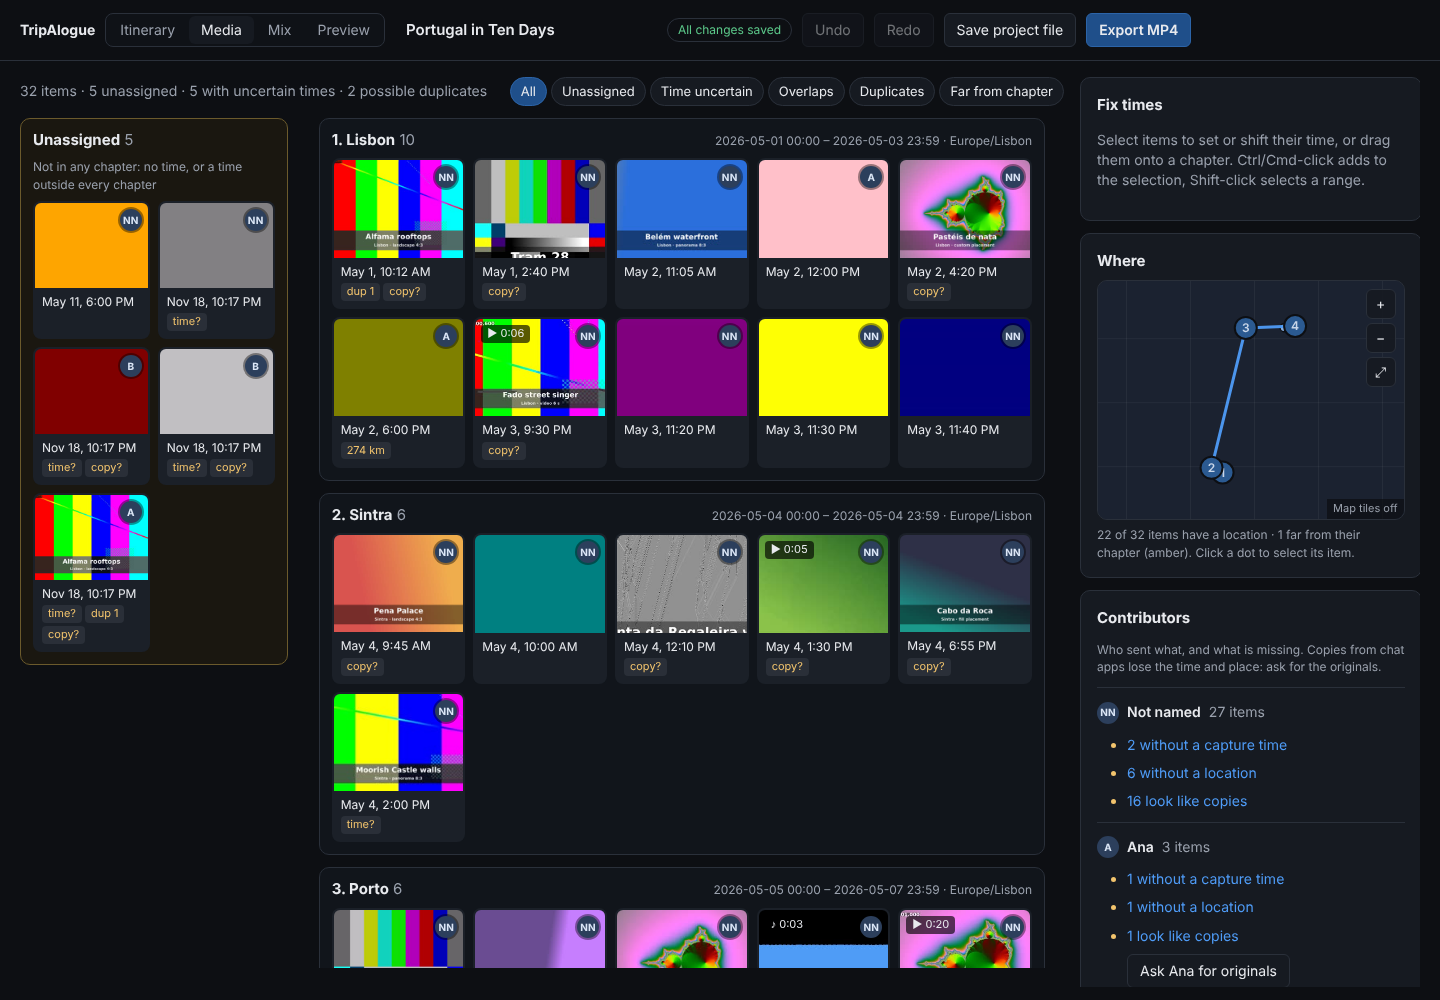
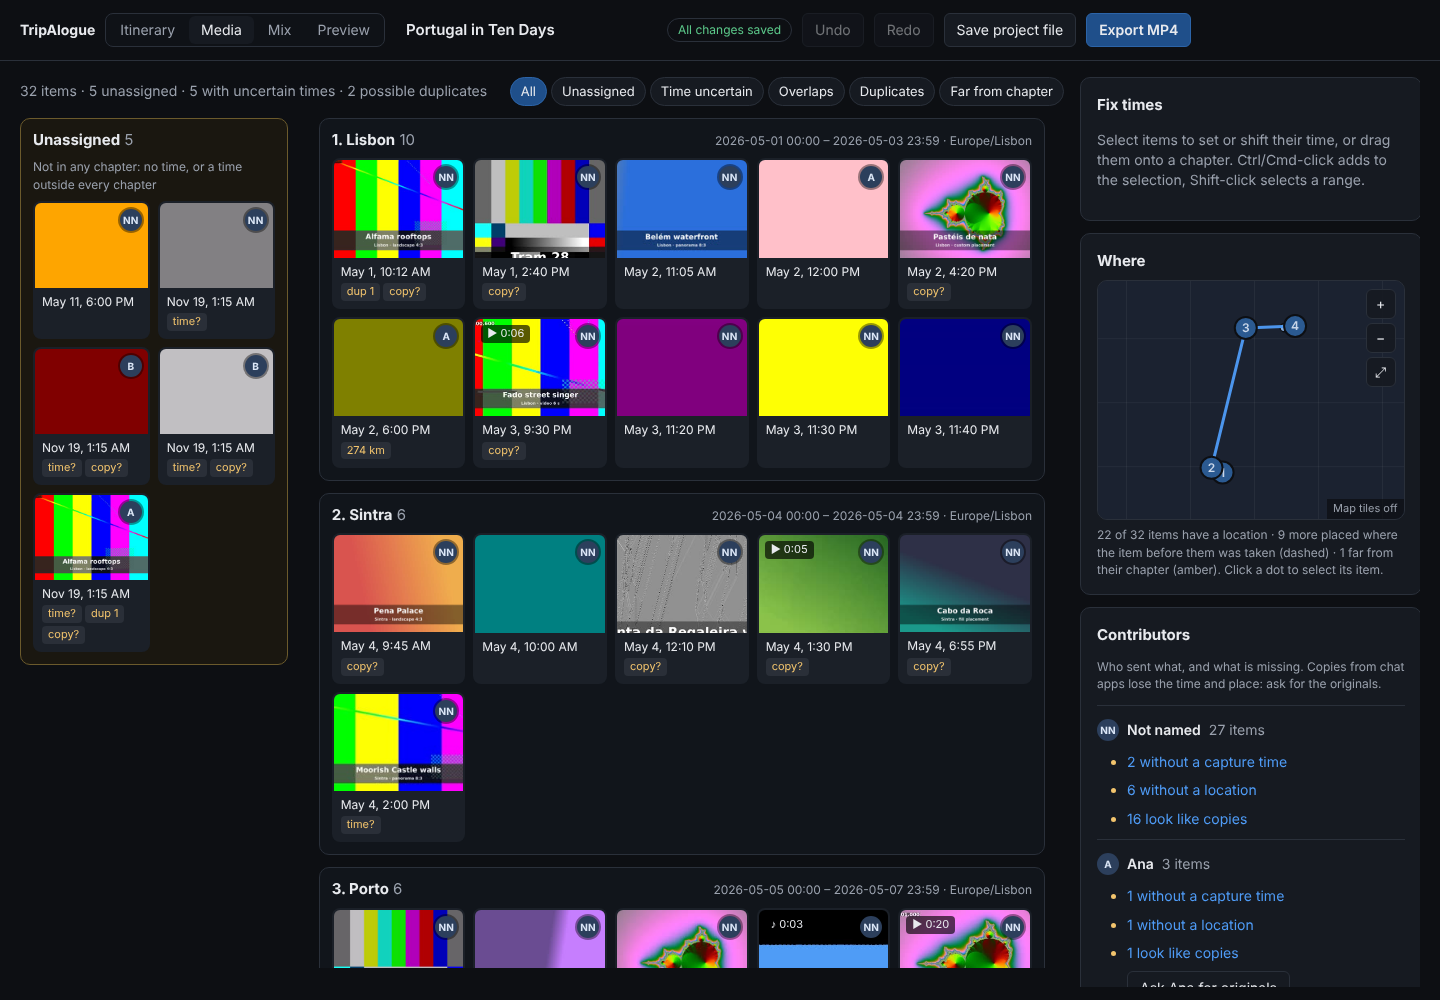
Place media without a location where the last earlier located item was taken
Pictures and videos with no location of their own borrow the place of the most
recent earlier item (by capture time) that has one. Derived, not saved: a location
set later wins. Used by the playback/export map and the Media view (dashed dots,
"placed where X was taken"). PRD MV-7 updated.

Claude-Session: https://claude.ai/code/session_01AduyArpdAmAEsk6yH1Lq9i

diff --git a/src/web/media.ts b/src/web/media.ts
@@ -23,10 +23,12 @@
  */
 import {
   contributorOf, contributorReports, duplicateGroups, dropIntoChapter, farFromChapter, itemInstant, localToUtc, messagingApp,
-  originalsRequest, overlapItems, previewClockOffset, removeMedia, renameSource, restoreMedia, setClockOffset, setItemLocation, setVideoTrim, MIN_CLIP_SEC, setSourceContributor, setUserTime, shiftUserTime, addTraveler, travelerName, newId,
+  originalsRequest, overlapItems, previewClockOffset, removeMedia, renameSource, restoreMedia, setClockOffset, setItemLocation, setVideoTrim, MIN_CLIP_SEC, setSourceContributor, setUserTime, shiftUserTime, addTraveler, travelerName, newId, mediaPlaces,
   strippedSigns, type ContributorReport, type Id, type LatLng, type MediaItem, type Travelogue,
 } from '../core/index.js';
 import { Api } from './api.js';
+
+const fileName = (uri: string) => uri.split('/').pop() ?? uri;
 
 /** The traveler menu's "+ New traveler…" entry. */
 const NEW_TRAVELER = '__new__';
@@ -461,9 +463,13 @@ export function mountMedia(s: ProjectSession, ctx: { projectId: string; play: (i
     const ch = p.chapters.find((c) => c.id === (one ?? items[0]).chapterId);
     const set = (label: string, loc: LatLng | null) => s.edit(label, (q) => setItemLocation(q, ids, loc), { structural: true });
     const editable = s.canEdit;
+    const places = mediaPlaces(p);
+    const lent = one && !one.location ? places.get(one.id) : undefined;
+    const lender = lent?.from && p.media.find((m) => m.id === lent.from);
     const status = one
-      ? (one.location ? `${one.location.lat.toFixed(4)}, ${one.location.lng.toFixed(4)}` : 'No location')
-      : `${located.length} of ${items.length} have a location`;
+      ? (one.location ? `${one.location.lat.toFixed(4)}, ${one.location.lng.toFixed(4)}`
+        : lent ? `None of its own: placed where ${lender ? fileName(lender.uri) : 'an earlier item'} was taken` : 'No location')
+      : `${located.length} of ${items.length} have a location${items.some((m) => !m.location && places.has(m.id)) ? '; the rest are placed where the item before them was taken' : ''}`;
     return h('div', { class: 'field', id: 'location-field' },
       h('label', {}, 'Location ', h('span', { class: 'muted', id: 'location-status' }, status)),
       h('div', { class: 'row' },
@@ -483,13 +489,19 @@ export function mountMedia(s: ProjectSession, ctx: { projectId: string; play: (i
   function renderMap() {
     const p = s.state;
     map.setPins(p.chapters.flatMap((c, i) => (c.coordinates ? [{ id: c.id, index: i, lat: c.coordinates.lat, lng: c.coordinates.lng, title: c.title }] : [])));
-    map.setDots(p.media.filter((m) => m.location).map((m) => ({
-      id: m.id, lat: m.location!.lat, lng: m.location!.lng,
-      state: selection.has(m.id) ? 'selected' as const : derived.far.has(m.id) ? 'far' as const : m.chapterId === null ? 'unassigned' as const : undefined,
-    })));
+    // Items without a location of its own are drawn where the last earlier located item was taken (dashed).
+    const places = mediaPlaces(p);
+    map.setDots(p.media.flatMap((m) => {
+      const at = places.get(m.id);
+      return at ? [{
+        id: m.id, lat: at.lat, lng: at.lng, borrowed: !!at.from,
+        state: selection.has(m.id) ? 'selected' as const : derived.far.has(m.id) ? 'far' as const : m.chapterId === null ? 'unassigned' as const : undefined,
+      }] : [];
+    }));
     const located = p.media.filter((m) => m.location).length;
+    const borrowed = [...places.values()].filter((x) => x.from).length;
     mapHint.textContent = picking ? 'Click the map to set the location.'
-      : `${located} of ${p.media.length} items have a location${derived.far.size ? ` · ${derived.far.size} far from their chapter (amber)` : ''}. Click a dot to select its item.`;
+      : `${located} of ${p.media.length} items have a location${borrowed ? ` · ${borrowed} more placed where the item before them was taken (dashed)` : ''}${derived.far.size ? ` · ${derived.far.size} far from their chapter (amber)` : ''}. Click a dot to select its item.`;
   }
 
   // ---------------------------------------------------------------- contributors (MM-16, MM-17)
@@ -544,13 +556,16 @@ export function mountMedia(s: ProjectSession, ctx: { projectId: string; play: (i
   function itemDetail(p: Travelogue, m: MediaItem): HTMLElement {
     const src = p.sources.find((x) => x.id === m.sourceId);
     const tz = zoneFor(p, m);
+    const lent = m.location ? undefined : mediaPlaces(p).get(m.id);
+    const lender = lent?.from ? p.media.find((x) => x.id === lent.from) : undefined;
     const rows: [string, string][] = [
       ['Kind', `${m.kind}${m.width ? ` · ${m.width}×${m.height}` : ''}${m.durationSec ? ` · ${dur(m.durationSec)}` : ''}`],
       ['Camera time', m.capturedAt ? `${m.capturedAt}${m.timestampConfidence === 'low' ? ' (from the file date)' : ''}` : 'none'],
       ...(src?.clockOffsetSec ? [['Clock offset', offsetLabel(src.clockOffsetSec)] as [string, string]] : []),
       ...(m.userTimestamp ? [['Set by hand', fmt(Date.parse(m.userTimestamp), tz, true)] as [string, string]] : []),
       ['Source', src?.displayName ?? '?'],
-      ...(m.location ? [['Location', `${m.location.lat.toFixed(4)}, ${m.location.lng.toFixed(4)}`] as [string, string]] : []),
+      ...(m.location ? [['Location', `${m.location.lat.toFixed(4)}, ${m.location.lng.toFixed(4)}`] as [string, string]]
+        : lent?.from ? [['Location', `${lent.lat.toFixed(4)}, ${lent.lng.toFixed(4)}, from ${lender ? fileName(lender.uri) : 'an earlier item'}`] as [string, string]] : []),
     ];
     return h('dl', { class: 'detail' }, ...rows.flatMap(([k, v]) => [h('dt', {}, k), h('dd', {}, v)]));
   }

diff --git a/test/places.test.ts b/test/places.test.ts
@@ -1,0 +1,72 @@
+/**
+ * Items without a location borrow the place of the most recent earlier item that has one.
+ */
+import { describe, it } from 'node:test';
+import assert from 'node:assert/strict';
+import { readFileSync } from 'node:fs';
+import { buildTimeline, mapAt, mediaPlace, mediaPlaces, parseProject, type MapLayer, type MediaItem, type Travelogue } from '../src/core/index.js';
+
+const sample = (): Travelogue => parseProject(readFileSync('samples/hand-written-20/trip.travelogue.json', 'utf8')).project;
+const edit = (p: Travelogue, id: string, patch: (m: MediaItem) => MediaItem): Travelogue => ({ ...p, media: p.media.map((m) => (m.id === id ? patch(m) : m)) });
+const unlocate = (p: Travelogue, id: string) => edit(p, id, ({ location: _l, ...m }) => m);
+const loc = (p: Travelogue, id: string) => p.media.find((m) => m.id === id)!.location!;
+
+describe('borrowed places', () => {
+  it('an item without a location is placed where the last earlier located item was taken', () => {
+    const p = unlocate(sample(), 'm04');
+    const at = mediaPlace(p, 'm04')!;
+    assert.deepEqual({ lat: at.lat, lng: at.lng }, loc(p, 'm03'));
+    assert.equal(at.from, 'm03');
+  });
+
+  it('uses the most recent earlier one, skipping other items without a location, not a later one', () => {
+    let p = unlocate(sample(), 'm03');
+    p = unlocate(p, 'm04');
+    assert.equal(mediaPlace(p, 'm03')!.from, 'm02');
+    assert.equal(mediaPlace(p, 'm04')!.from, 'm02', 'm03 has none of its own to lend');
+  });
+
+  it('goes by capture time, including a time set by hand, not by order in the project', () => {
+    // m02 is moved to after m03 by hand: m04 now borrows from m02.
+    let p = edit(sample(), 'm02', (m) => ({ ...m, userTimestamp: '2026-05-02T12:00:00' }));
+    p = unlocate(p, 'm04');
+    assert.equal(mediaPlace(p, 'm04')!.from, 'm02');
+  });
+
+  it('crosses chapters: the first photo of a chapter can borrow from the end of the one before', () => {
+    const p = unlocate(sample(), 'm06');
+    assert.equal(mediaPlace(p, 'm06')!.from, 'm05');
+  });
+
+  it('an item taken before any located item, or with no capture time, gets no place', () => {
+    let p = unlocate(sample(), 'm01');
+    assert.equal(mediaPlace(p, 'm01'), undefined);
+    p = edit(unlocate(sample(), 'm04'), 'm04', ({ capturedAt: _c, ...m }) => m);
+    assert.equal(mediaPlace(p, 'm04'), undefined);
+  });
+
+  it('an item\'s own location always wins and is not marked as borrowed', () => {
+    const p = sample();
+    const at = mediaPlace(p, 'm04')!;
+    assert.equal(at.from, undefined);
+    assert.deepEqual({ lat: at.lat, lng: at.lng }, loc(p, 'm04'));
+  });
+
+  it('does not change the project', () => {
+    const p = unlocate(sample(), 'm04');
+    mediaPlaces(p);
+    assert.equal(p.media.find((m) => m.id === 'm04')!.location, undefined);
+  });
+
+  it('the map shows a dot for the item where it borrowed its place, and the marker moves there', () => {
+    const p = unlocate(sample(), 'm04');
+    const tl = buildTimeline(p);
+    const s = tl.segments.find((x) => x.kind !== 'title' && x.item.id === 'm04')!;
+    const m = mapAt(p, tl, s.start + s.duration / 2, { w: 1920, h: 1080 })!;
+    const layer = { state: m.state } as Pick<MapLayer, 'state'>;
+    const cur = layer.state.dots.filter((d) => d.state === 'current');
+    assert.equal(cur.length, 1);
+    assert.equal(cur[0].lat, loc(p, 'm03').lat);
+    assert.equal(layer.state.marker?.lat, loc(p, 'm03').lat);
+  });
+});

diff --git a/src/core/places.ts b/src/core/places.ts
@@ -1,0 +1,50 @@
+/**
+ * Where each picture or video was taken, for the map.
+ *
+ * An item with no location of its own (no GPS in the file, none set by hand) is placed where the most recent
+ * earlier item with a location was taken: the last photo or video, by capture time, that has one. Nothing is
+ * written into the project; give the item a location and that one is used instead.
+ *
+ * An item with no capture time, or taken before any located item, gets no place this way.
+ */
+import { mediaInstant } from './itinerary.js';
+import type { Id, LatLng, MediaItem, Travelogue } from './schema.js';
+
+export interface MediaPlace extends LatLng {
+  /** Set when the place is borrowed: the item whose location it is. */
+  from?: Id;
+}
+
+const visual = (m: MediaItem) => m.kind === 'image' || m.kind === 'video';
+
+const cache = new WeakMap<MediaItem[], { chapters: Travelogue['chapters']; places: Map<Id, MediaPlace> }>();
+
+/** Every picture and video with a place: its own location, or the one it borrows. */
+export function mediaPlaces(p: Travelogue): Map<Id, MediaPlace> {
+  const hit = cache.get(p.media);
+  if (hit && hit.chapters === p.chapters) return hit.places;
+  const tzOf = new Map(p.chapters.map((c) => [c.id, c.timeZone]));
+  const fallbackTz = p.chapters[0]?.timeZone ?? 'UTC';
+  const timed = p.media
+    .filter(visual)
+    .map((m) => ({ m, t: mediaInstant(m, (m.chapterId && tzOf.get(m.chapterId)) || fallbackTz) }));
+  const places = new Map<Id, MediaPlace>();
+  for (const { m } of timed) if (m.location) places.set(m.id, { lat: m.location.lat, lng: m.location.lng });
+  // In capture order; items taken at the same moment keep the project's order, with located ones first.
+  const ordered = timed
+    .map((x, i) => ({ ...x, i }))
+    .filter((x) => Number.isFinite(x.t))
+    .sort((a, b) => a.t - b.t || Number(!a.m.location) - Number(!b.m.location) || a.i - b.i);
+  let last: MediaItem | undefined;
+  for (const { m } of ordered) {
+    if (m.location) last = m;
+    else if (last) places.set(m.id, { lat: last.location!.lat, lng: last.location!.lng, from: last.id });
+  }
+  cache.set(p.media, { chapters: p.chapters, places });
+  return places;
+}
+
+/** The place of one item (its own, or borrowed), if it has one. */
+export function mediaPlace(p: Travelogue, itemId: Id): MediaPlace | undefined {
+  return mediaPlaces(p).get(itemId);
+}

diff --git a/src/core/map-model.ts b/src/core/map-model.ts
@@ -19,6 +19,7 @@
 import { segmentIndexAt, DEFAULT_MAP_TRANSITION, type Segment, type Timeline } from './timeline.js';
 import type { Chapter, InsetCorner, LatLng, MapStyle, Travelogue } from './schema.js';
 import { distanceKm } from './contributors.js';
+import { mediaPlaces } from './places.js';
 
 export interface MapCamera {
   lat: number;
@@ -217,9 +218,10 @@ function edgeFade(local: number, d: number, ramp: number): number {
 export function chapterCamera(p: Travelogue, tl: Timeline, chIndex: number, view: { w: number; h: number }): MapCamera {
   const ch = p.chapters[chIndex];
   const pts: LatLng[] = ch.coordinates ? [ch.coordinates] : [];
+  const places = mediaPlaces(p);
   for (const s of tl.segments) {
     if (s.kind === 'title' || s.chapterIndex !== chIndex) continue;
-    const loc = itemPlace(p, s.item.location, ch);
+    const loc = itemPlace(p, places.get(s.item.id), ch);
     if (loc && (!ch.coordinates || distanceKm(ch.coordinates, loc) <= FIT_KM)) pts.push(loc);
   }
   return fitCamera(pts, view, 0.15);
@@ -238,12 +240,15 @@ export function storyAt(p: Travelogue, tl: Timeline, i: number, local: number, a
   const pastDots: MapDotState[] = [];
   const shownPath: LatLng[] = [];
   let current: LatLng | undefined;
+  // An item without a location of its own is placed where the last earlier located item was taken.
+  const places = mediaPlaces(p);
   tl.segments.forEach((g, k) => {
     if (g.kind === 'title') return;
     const gch = p.chapters[g.chapterIndex];
-    const own = g.item.location ? itemPlace(p, g.item.location, gch) : undefined;
+    const loc = places.get(g.item.id);
+    const own = loc ? itemPlace(p, loc, gch) : undefined;
     if (g.chapterIndex === seg.chapterIndex) {
-      const place = itemPlace(p, g.item.location, ch); // MV-7: no place → the chapter's pin
+      const place = itemPlace(p, loc, ch); // MV-7: no place → the chapter's pin
       const state = k < i ? 'shown' : k === i ? 'current' : 'ahead';
       if (own) dots.push({ ...own, state });
       if (place && state !== 'ahead') shownPath.push(place);

diff --git a/src/web/map.ts b/src/web/map.ts
@@ -29,6 +29,8 @@ export interface MapDot {
    * ahead (still to come in this chapter).
    */
   state?: 'selected' | 'far' | 'unassigned' | 'past' | 'shown' | 'current' | 'ahead';
+  /** Media map: the item has no location of its own and is placed where an earlier item was taken. */
+  borrowed?: boolean;
   /** Inset: keep this dot in view when the chapter is focused. */
   fit?: boolean;
 }
@@ -465,7 +467,14 @@ export class RouteMap {
       ctx.fill();
       ctx.lineWidth = sel ? 2 : 1.5;
       ctx.strokeStyle = sel ? '#4f9cf7' : d.state === 'unassigned' ? '#f2c46d' : '#0d0f13';
+      if (d.borrowed && !sel) {
+        // A borrowed place: a dashed ring over a faint fill, so real locations stand out.
+        ctx.globalAlpha = 0.7;
+        ctx.setLineDash([2, 2]);
+      }
       ctx.stroke();
+      ctx.setLineDash([]);
+      ctx.globalAlpha = 1;
     }
     const pts = this.pins.map((p) => ({ p, s: this.screenPos(p.id)! }));
     const inset = !!this.o.inset;

diff --git a/src/core/index.ts b/src/core/index.ts
@@ -7,6 +7,7 @@ export * from './autosave.js';
 export * from './edits.js';
 export * from './timeline.js';
 export * from './render-model.js';
+export * from './places.js';
 export * from './map-model.js';
 export * from './telemetry.js';
 export * from './fractional.js';

diff --git a/README.md b/README.md
@@ -137,7 +137,7 @@ with "could not be converted", check that line, and that `ffmpeg -decoders | gre
 
 ```sh
 npm run typecheck
-npm test            # 186 tests: model, order keys, operations, history, itinerary, assignment, metadata, travelers, sample hash, geo proxy, HEIC, presentation edits, audio mix, export plan and MP4 render, server API, uploads, processing, retry, local-only access
+npm test            # 194 tests: model, order keys, operations, history, itinerary, assignment, metadata, travelers, sample hash, geo proxy, HEIC, presentation edits, audio mix, export plan and MP4 render, server API, uploads, processing, retry, local-only access
 npm run test:e2e    # Phase 0 browser exit test (needs Playwright's Chromium: npx playwright install chromium)
 npm run test:phase1 # Phase 1 browser test of the G1 tasks (no internet needed: it uses a stand-in map provider)
 npm run test:phase2 # Phase 2 browser test of the G2 tasks (your photos and two travelers', a slow camera, WhatsApp copies, a folder upload)
@@ -430,6 +430,11 @@ same in the preview and the export.
 | AU-9 | **Fit pictures to it**: the photos a narration plays over stretch to its length | same |
 
 Notes:
+- **Items without a location** (no GPS in the file, none set by hand) are placed where the most recent earlier
+  item with a location was taken, by capture time, across chapters. This is worked out, not saved: giving the item
+  a location replaces it. The Media view draws such items as dashed dots and says which item lent the place. An
+  item taken before any located item, or with no capture time, has no place (in a chapter the map then uses the
+  chapter's pin). See `src/core/places.ts`.
 - Exports need a Chromium: Playwright's (`npx playwright install chromium`), or an installed Google Chrome or
   Microsoft Edge. Without one the export stops at once with that advice.
 - Map tiles come from OpenStreetMap; terrain from OpenTopoMap (`TRIPALOGUE_TERRAIN_TILE_URL` changes it). Dark is
